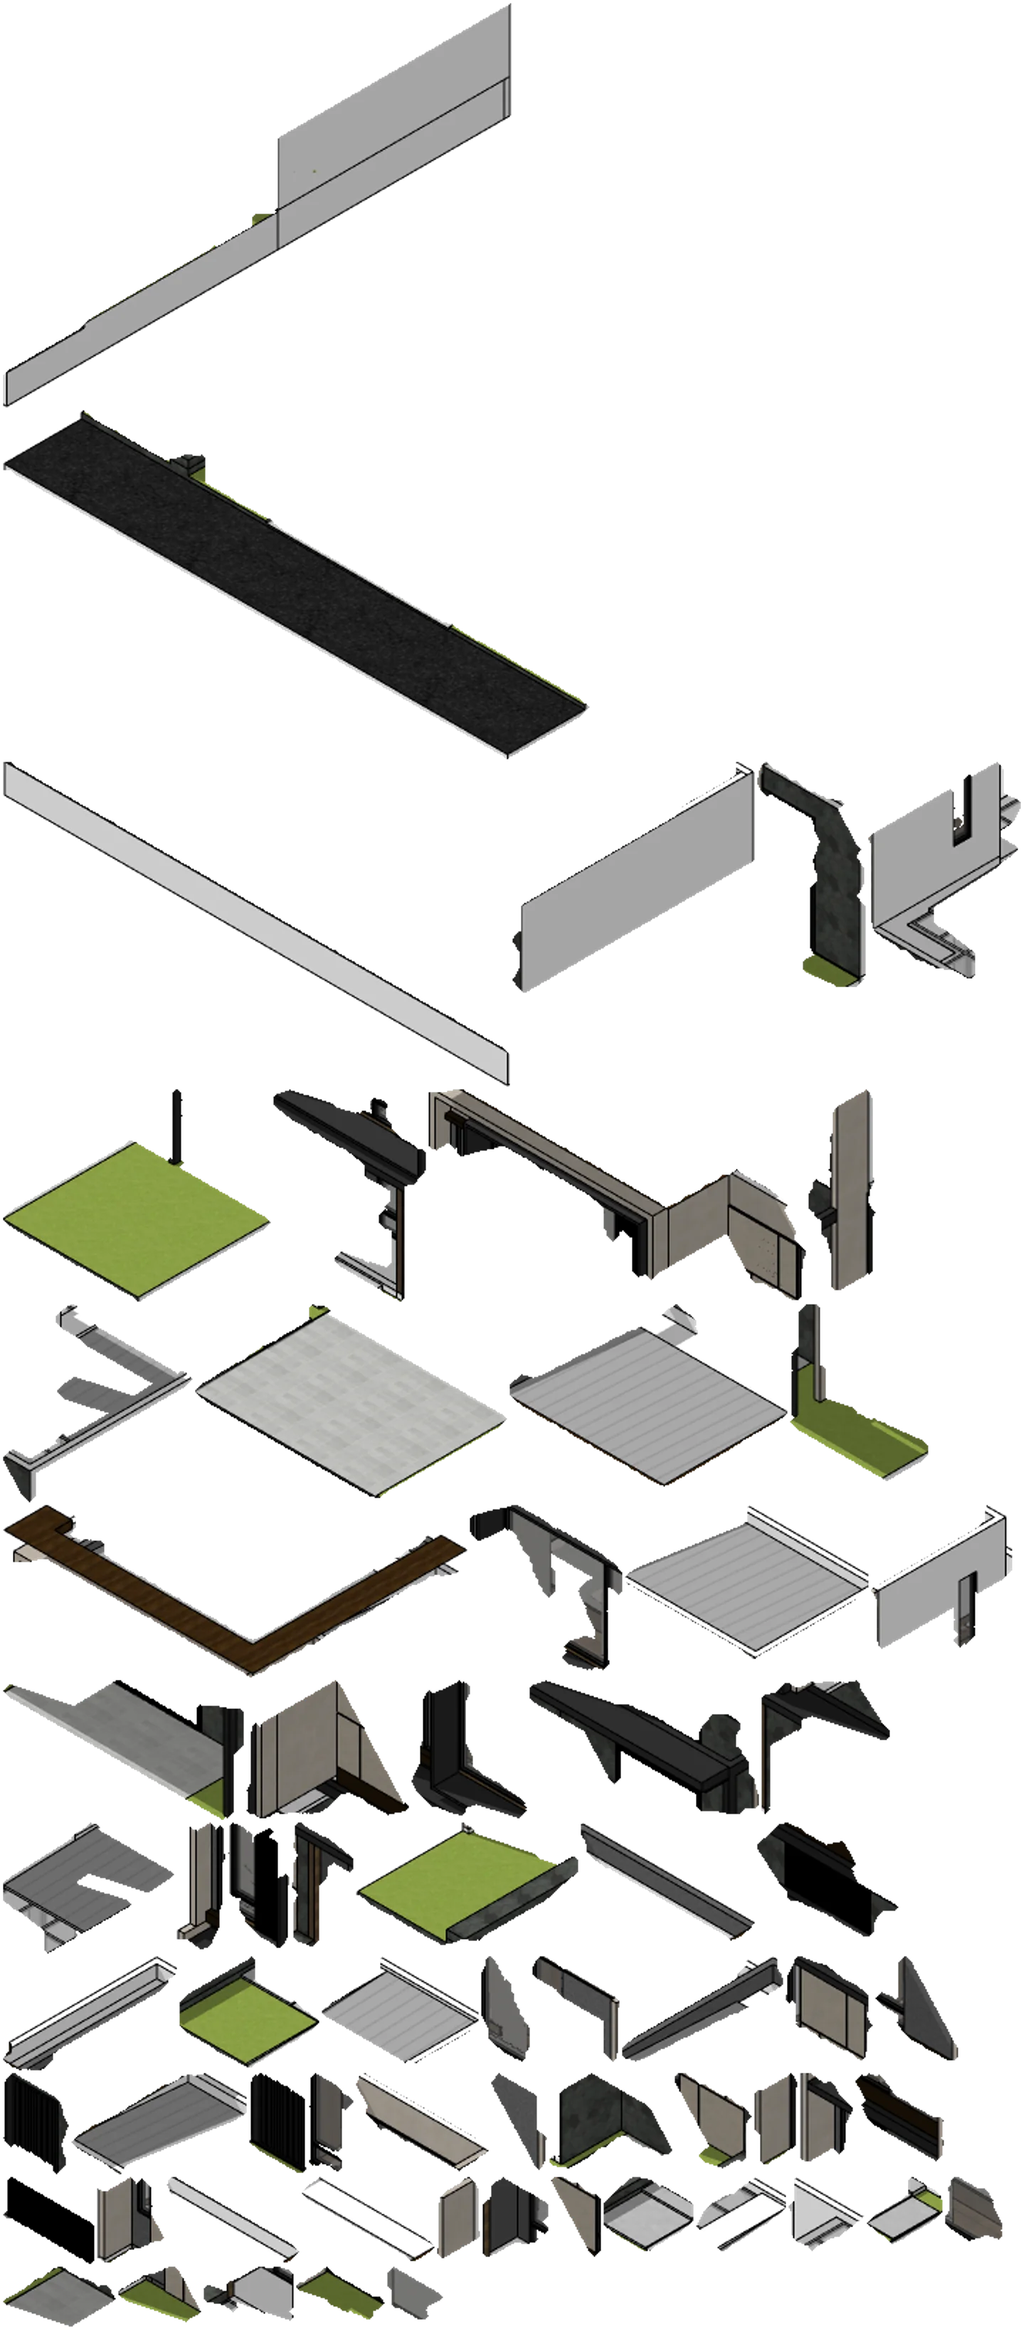
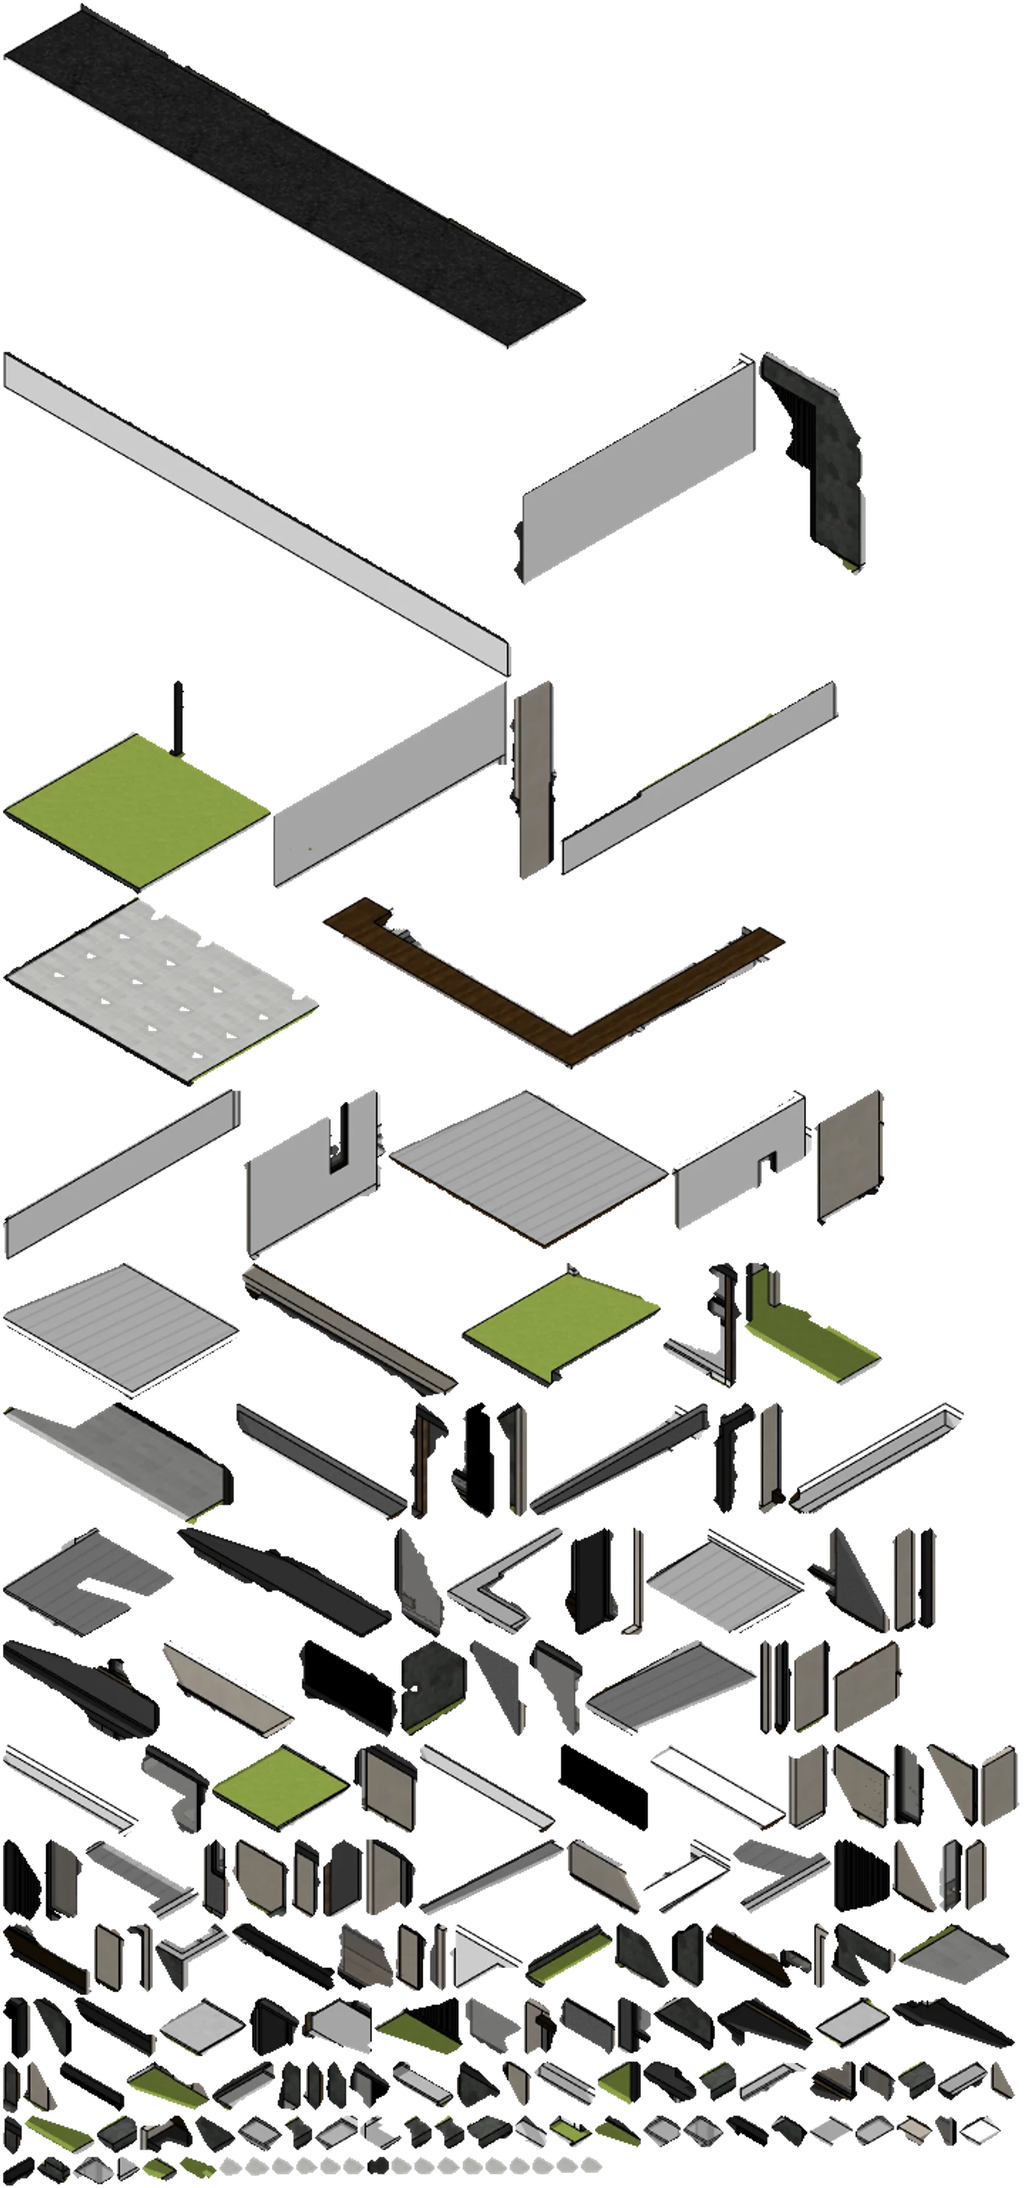
Home services: pencil-drawn sketch, then the building laid on like a puzzle
One six-second take once the section lands on screen. A pencil draws the
house line after line (the sketch lines are traced into strokes and the
drawing is uncovered along them), the finished sketch is held for a moment,
then the building is laid onto it like a puzzle: each part glides in from
its own direction, from clear to solid, next to parts already in place.

The parts are now cut along the sketch's own lines (window panes, wall
panels, floor slabs, steps, canopy, roof planes: 177 instead of 66) and
ordered storey by storey as a spreading front. Tempo is set by DRAW, HELD
and BUILD in ServiceSketch.tsx.

Claude-Session: https://claude.ai/code/session_01ReS4jKxqpAp3wjPnS89kia

diff --git a/src/components/ServiceSketch.tsx b/src/components/ServiceSketch.tsx
@@ -8,10 +8,12 @@ import model from '../data/model-parts.json'
 import './ServiceSketch.css'
 
 /**
- * Home (02), after Archidomo's sketch block, set on the site grid: a house stands straight on the page, first
- * as a line sketch. Once the section lands on screen the building is set onto the sketch part by part (lawn,
- * drive, walls, canopy, roof planes ...), quickly, from the ground up, until the finished house covers the drawing.
- * Assets: three renders from one camera, turned into sketch + parts sheet (scripts/build-model-parts.mjs).
+ * Home (02), after Archidomo's sketch block, set on the site grid: a house stands straight on the page and
+ * comes about in one six-second take once the section lands on screen. First a pencil draws it, line after
+ * line, the long lines before the details. Then the building is laid onto the drawing like a puzzle: every part
+ * (window pane, wall panel, floor slab, step, canopy, roof plane ...) glides in from its own direction, from
+ * clear to solid, next to parts already in place, until the finished house covers the sketch.
+ * Assets: three renders from one camera, turned into sketch, strokes and parts (scripts/build-model-parts.mjs).
  */
 export function animateServiceSketch(page: HTMLElement) {
   const el = page.querySelector<HTMLElement>('.svs')
@@ -28,31 +30,76 @@ export function animateServiceSketch(page: HTMLElement) {
   )
 }
 
-// per part: x, y on the sheet · width, height · x, y in the picture · storey (1 ground, 2 upper, 3 roof)
-const parts = model.parts as [number, number, number, number, number, number, number][]
-const HOLD = 0.35 // s the sketch is left alone once the section has landed
-const EACH = 0.026 // s from one part to the next
-const PAUSE = 0.14 // s of breath between two storeys
-const LAND = 0.42 // s a part takes to settle
-const DROP = 24 // picture px a part comes down from
+/* ---- the take, in seconds: 2.3 drawing + 0.3 held + 3.4 building = 6 -------------------------------------- */
+const DRAW = 2.3 // the pencil
+const STROKE = [0.16, 0.6] // shortest and longest time one stroke takes
+const HELD = 0.3 // the finished sketch, left alone
+const BUILD = 3.4 // the puzzle
+const LAND = 1.0 // one part, from clear and away to solid and home
+const TOTAL = DRAW + HELD + BUILD
+
+const PENCIL = 5 // picture px the pencil uncovers around a line's centre
+const REACH = [34, 78] // picture px a part travels, nearest and farthest
+const SWELL = 0.1 // how much larger a part is when it sets off
+
+/* ---- the sketch as strokes: when each starts and how long it takes ------------------------------------------- */
+type Stroke = { pts: number[]; len: number; at: number; dur: number }
+const strokes: Stroke[] = (() => {
+  const list = (model.strokes as number[][]).map((pts) => {
+    let len = 0
+    for (let i = 2; i < pts.length; i += 2) len += Math.hypot(pts[i] - pts[i - 2], pts[i + 1] - pts[i - 1])
+    return { pts, len, at: 0, dur: 0 }
+  })
+  // long lines first (the massing), details after; within that the hand moves from left to right
+  const byLength = [...list].sort((a, b) => b.len - a.len)
+  const longest = byLength[0]?.len || 1
+  const all = list.reduce((sum, s) => sum + s.len, 0) || 1
+  let inked = 0
+  for (const s of byLength) {
+    s.dur = STROKE[0] + (STROKE[1] - STROKE[0]) * Math.sqrt(s.len / longest)
+    // its turn comes by how much line was drawn before it, so the pencil keeps one pace from first line to last
+    const turn = 0.75 * (inked / all) + 0.25 * (s.pts[0] / model.w)
+    s.at = turn * (DRAW - s.dur)
+    inked += s.len
+  }
+  return list
+})()
+
+/* ---- the parts: where each comes from and when it sets off --------------------------------------------------- */
+// per part on the sheet: x, y · width, height · x, y in the picture · storey
+type Part = { sx: number; sy: number; w: number; h: number; x: number; y: number; dx: number; dy: number; at: number }
+const parts: Part[] = (model.parts as number[][]).map(([sx, sy, w, h, x, y], n, all) => {
+  // every part from its own side: the golden angle never repeats a direction for neighbours in the order
+  const angle = n * 2.39996
+  const reach = REACH[0] + (REACH[1] - REACH[0]) * ((n * 0.618034) % 1)
+  return {
+    sx, sy, w, h, x, y,
+    dx: Math.cos(angle) * reach,
+    dy: Math.sin(angle) * reach,
+    at: DRAW + HELD + (n / Math.max(1, all.length - 1)) * (BUILD - LAND),
+  }
+})
+
+const smooth = (p: number) => p * p * (3 - 2 * p)
 
 export function ServiceSketch() {
   const figure = useRef<HTMLElement>(null)
   const canvas = useRef<HTMLCanvasElement>(null)
-  // without motion the house is simply finished; otherwise it waits as a sketch
-  const [phase, setPhase] = useState<'sketch' | 'building' | 'built'>(() => (reducedMotion() ? 'built' : 'sketch'))
+  // without motion the house is simply finished
+  const [built, setBuilt] = useState(reducedMotion)
 
   useEffect(() => {
     const el = figure.current
     const cv = canvas.current
     if (!el || !cv || reducedMotion()) return
     let live = true
-    let run: gsap.core.Tween | undefined
+    let take: gsap.core.Tween | undefined
     let sheet: HTMLImageElement | undefined
     const observers: IntersectionObserver[] = []
     const dpr = () => Math.min(window.devicePixelRatio || 1, 2)
+    const sketch = el.querySelector<HTMLImageElement>('.svs__sketch')
 
-    /** Parts sheet, fetched a screen ahead so the build never waits for it. */
+    /** Parts sheet, fetched a screen ahead so the take never waits for it. */
     const fetchSheet = () => {
       if (sheet) return
       sheet = new Image()
@@ -60,45 +107,96 @@ export function ServiceSketch() {
       sheet.src = imgSrc('build-parts', el.offsetWidth * dpr())
     }
 
-    const build = () => {
+    const roll = () => {
       const ctx = cv.getContext('2d')
       const img = sheet
-      if (!ctx || !img?.naturalWidth) return setPhase('built') // no sheet, no show: just the finished house
+      if (!ctx || !sketch?.naturalWidth || !img?.naturalWidth) return setBuilt(true) // nothing to show it with
       cv.width = Math.round(Math.min(el.offsetWidth * dpr(), model.w * 2))
       cv.height = Math.round((cv.width * model.h) / model.w)
       const k = cv.width / model.w // canvas px per picture px
       const m = img.naturalWidth / model.sheet // sheet px per picture px
-      const last = parts[parts.length - 1]
+
+      // what the pencil has uncovered so far; the sketch image shows through it
+      const paper = document.createElement('canvas')
+      paper.width = cv.width
+      paper.height = cv.height
+      const pencil = paper.getContext('2d')
+      if (!pencil) return setBuilt(true)
+      pencil.lineWidth = PENCIL * k
+      pencil.lineCap = 'round'
+      pencil.lineJoin = 'round'
+      const done = new Uint8Array(strokes.length)
+
+      const draw = (t: number) => {
+        for (let n = 0; n < strokes.length; n++) {
+          const s = strokes[n]
+          if (done[n] || t < s.at) continue
+          const p = Math.min(1, (t - s.at) / s.dur)
+          let left = s.len * smooth(p) // the hand starts and stops gently
+          pencil.beginPath()
+          pencil.moveTo(s.pts[0] * k, s.pts[1] * k)
+          for (let i = 2; i < s.pts.length && left > 0; i += 2) {
+            const [ax, ay, bx, by] = [s.pts[i - 2], s.pts[i - 1], s.pts[i], s.pts[i + 1]]
+            const seg = Math.hypot(bx - ax, by - ay) || 1
+            const f = Math.min(1, left / seg)
+            pencil.lineTo((ax + (bx - ax) * f) * k, (ay + (by - ay) * f) * k)
+            left -= seg
+          }
+          pencil.stroke()
+          if (p === 1) done[n] = 1
+        }
+        // towards the end the whole sheet clears: grain and dots no stroke passed over
+        const rest = (t - (DRAW - 0.35)) / (0.35 + HELD * 0.6)
+        if (rest > 0) {
+          pencil.globalAlpha = Math.min(1, rest) * 0.25
+          pencil.fillRect(0, 0, paper.width, paper.height)
+          pencil.globalAlpha = 1
+        }
+      }
+
       const clock = { t: 0 }
-      const total = (parts.length - 1) * EACH + (last[6] - 1) * PAUSE + LAND
-      setPhase('building')
-      run = gsap.to(clock, {
-        t: total,
-        duration: total,
-        delay: HOLD,
+      take = gsap.to(clock, {
+        t: TOTAL,
+        duration: TOTAL,
         ease: 'none',
         onUpdate: () => {
+          const t = clock.t
+          if (t < DRAW + HELD) draw(t)
           ctx.clearRect(0, 0, cv.width, cv.height)
-          for (let n = 0; n < parts.length; n++) {
-            const [sx, sy, w, h, x, y, storey] = parts[n]
-            const p = (clock.t - n * EACH - (storey - 1) * PAUSE) / LAND
-            if (p <= 0) break // parts go up in order: nothing after this one has started
-            const near = 1 - Math.min(1, p)
-            ctx.globalAlpha = Math.min(1, p * 3)
-            ctx.drawImage(img, sx * m, sy * m, w * m, h * m, x * k, (y - DROP * near ** 4) * k, w * k, h * k)
+          // the sketch, as far as the pencil has come
+          ctx.globalAlpha = 1
+          ctx.drawImage(paper, 0, 0)
+          ctx.globalCompositeOperation = 'source-in'
+          ctx.drawImage(sketch, 0, 0, cv.width, cv.height)
+          ctx.globalCompositeOperation = 'source-over'
+          // the parts, in the order they set off
+          for (const part of parts) {
+            const p = (t - part.at) / LAND
+            if (p <= 0) break
+            const away = p >= 1 ? 0 : (1 - p) ** 4 // fast out of the distance, slow into place
+            const size = 1 + SWELL * away
+            ctx.globalAlpha = p >= 1 ? 1 : smooth(Math.min(1, p / 0.85)) // clear to solid, over the whole glide
+            ctx.drawImage(
+              img,
+              part.sx * m, part.sy * m, part.w * m, part.h * m,
+              (part.x + part.dx * away - (part.w * (size - 1)) / 2) * k,
+              (part.y + part.dy * away - (part.h * (size - 1)) / 2) * k,
+              part.w * size * k,
+              part.h * size * k,
+            )
           }
         },
         // the canvas now shows the whole house: hand over to the plain image
-        onComplete: () => setPhase('built'),
+        onComplete: () => setBuilt(true),
       })
     }
 
     const loaded = (img: HTMLImageElement) =>
       img.complete
         ? Promise.resolve()
-        : new Promise<void>((done) => {
-            img.addEventListener('load', () => done(), { once: true })
-            img.addEventListener('error', () => done(), { once: true })
+        : new Promise<void>((ready) => {
+            img.addEventListener('load', () => ready(), { once: true })
+            img.addEventListener('error', () => ready(), { once: true })
           })
 
     const watch = (fn: () => void, options: IntersectionObserverInit) => {
@@ -113,22 +211,22 @@ export function ServiceSketch() {
 
     const off = whenGateOpen(() => {
       watch(fetchSheet, { rootMargin: '100% 0px' })
-      // landed: most of the house in view, also where the model is taller than the screen
+      // landed: a good half of the house in view, also where the model is taller than the screen
       watch(
         () => {
           fetchSheet()
           const waits = Array.from(el.querySelectorAll('img'), loaded)
           if (sheet) waits.push(loaded(sheet))
-          Promise.all(waits).then(() => live && build())
+          Promise.all(waits).then(() => live && roll())
         },
-        { threshold: Math.min(0.7, (0.85 * window.innerHeight) / el.offsetHeight) },
+        { threshold: Math.min(0.55, (0.8 * window.innerHeight) / el.offsetHeight) },
       )
     })
     return () => {
       live = false
       off()
       observers.forEach((io) => io.disconnect())
-      run?.kill()
+      take?.kill()
     }
   }, [])
 
@@ -146,13 +244,14 @@ export function ServiceSketch() {
           <span className="svs__plus" aria-hidden="true">+</span>
           {tr('A house by our studio, from sketch to building.', 'Rumah karya studio kami, dari sketsa hingga terbangun.')}
         </p>
-        <figure className="svs__model" ref={figure} data-phase={phase}>
+        <figure className="svs__model" ref={figure} data-built={built ? '' : undefined}>
           <Img
             id="build-full"
             className="svs__full"
             alt={tr('3D model of a two-storey house by Kadanglabo', 'Model 3D rumah dua lantai karya Kadanglabo')}
             sizes="(min-width: 900px) 60vw, 100vw"
           />
+          {/* only read by the canvas: the pencil uncovers it stroke by stroke */}
           <Img id="build-sketch" className="svs__sketch" alt="" aria-hidden sizes="(min-width: 900px) 60vw, 100vw" />
           <canvas ref={canvas} className="svs__parts" aria-hidden="true" />
         </figure>

diff --git a/src/components/ServiceSketch.css b/src/components/ServiceSketch.css
@@ -53,13 +53,13 @@
   text-transform: uppercase;
 }
 
-/* the model, one canvas for three things: the finished house (what stays), its line sketch (what waits),
-   and the canvas the parts are set onto the sketch with. See data-phase in ServiceSketch.tsx. */
+/* the model: the finished house (what stays) and a canvas of the same size on which the take is played: the
+   pencil sketch, then the parts laid onto it. The sketch image itself is never shown, the canvas reads it. */
 .svs__model {
   position: relative;
   grid-column: 4 / -1;
   justify-self: center;
-  /* never taller than the screen: the whole house has to be in view to watch it build */
+  /* never taller than the screen: the whole house has to be in view to watch it come about */
   width: min(100%, min(72vh, 720px) * 1.159);
   margin: 0;
 }
@@ -76,11 +76,12 @@
   height: 100%;
 }
 /* until the house is built the finished image only holds the place */
-.svs__model:not([data-phase='built']) .svs__full {
+.svs__model:not([data-built]) .svs__full,
+.svs__sketch {
   opacity: 0;
 }
-.svs__model[data-phase='built'] .svs__sketch,
-.svs__model[data-phase='built'] .svs__parts {
+.svs__model[data-built] .svs__sketch,
+.svs__model[data-built] .svs__parts {
   display: none;
 }
 

diff --git a/README.md b/README.md
@@ -46,7 +46,7 @@ git reset --hard <hash>      # kembali total ke commit tertentu (riwayat sesudah
 
 | Route | Isi |
 | --- | --- |
-| `/` | Sesuai urutan brief: Hero "KADANGLABO" (gaya shed.design) dengan tagline di bawah nama → (01) About → Kadanglabo spirit (showreel kiri, etos kanan — layout "Shed spirit") → (02) Core services & sectors (ref. Archidomo): model 3D rumah dua lantai yang mula-mula tampil sebagai sketsa garis; begitu section mendarat di layar, bagian-bagian bangunan (taman, carport, dinding, kanopi, atap) terpasang cepat satu per satu dari bawah ke atas sampai rumah jadi menutupi sketsanya, berdiri langsung di atas warna halaman di samping judul, lalu gambar aksonometri interior (juga dipotong, tanpa bingkai) sejajar dengan visual 3D Perum Firlatata, dan tiga kelompok layanan (Desain, Manajemen, Perawatan) sebagai catatan "+". Sektor proyek tidak diulang di sini, cukup di (03) → (03) Our work: mosaik foto per kategori yang bergerak saat scroll (ref. Coeval; di HP tumpukan per kategori, foto terbuka dari pojok ala Archidomo) + pita arsip (angka 61 menghitung naik, rincian per sektor) → (04) Latest updates → footer "See work" |
+| `/` | Sesuai urutan brief: Hero "KADANGLABO" (gaya shed.design) dengan tagline di bawah nama → (01) About → Kadanglabo spirit (showreel kiri, etos kanan — layout "Shed spirit") → (02) Core services & sectors (ref. Archidomo): model 3D rumah dua lantai yang terjadi dalam satu adegan 6 detik begitu section mendarat di layar: mula-mula digambar seperti tarikan pensil, garis demi garis (±2,3 dtk), lalu bangunannya terpasang di atas sketsa seperti puzzle (±3,4 dtk): tiap bagian (kaca jendela, panel dinding, lantai, anak tangga, kanopi, bidang atap) meluncur dari arahnya sendiri, dari bening ke padat, di samping bagian yang sudah terpasang, sampai rumah jadi menutupi sketsanya. Berdiri langsung di atas warna halaman di samping judul, lalu gambar aksonometri interior (juga dipotong, tanpa bingkai) sejajar dengan visual 3D Perum Firlatata, dan tiga kelompok layanan (Desain, Manajemen, Perawatan) sebagai catatan "+". Sektor proyek tidak diulang di sini, cukup di (03) → (03) Our work: mosaik foto per kategori yang bergerak saat scroll (ref. Coeval; di HP tumpukan per kategori, foto terbuka dari pojok ala Archidomo) + pita arsip (angka 61 menghitung naik, rincian per sektor) → (04) Latest updates → footer "See work" |
 | `/about` (`/about#team`) | About (tanpa section biru): foto pertama terbuka dari bentuk pintu ("satu pintu", ref. ERA Residence) → Kadanglabo dalam angka (cincin 16 foto proyek berputar, angka bergulir; ref. Kononenko; angka dihitung dari data) → Satu meja: tiga pita foto lebar (Klien · Perencana · Pelaksana, nama peran di dalam foto + apa yang dibawa ke meja) menyapu masuk dari sisi bergantian satu per satu, nama peran naik dari tepi pita, foto zoom-out (ref. panel Saisei) → Etos + 2 parameter keberhasilan → Vision (foto full-bleed) → Mission & Our goals: dua kolom sejajar berisi pernyataan bernomor yang menyala kata demi kata saat scroll, angka serif raksasa oranye tipis di belakang tiap kolom → tim in-house (`#team`) → CTA. `/studio` dialihkan ke sini |
 | `/services` | Skema brief: (01) Our services: adegan zoom tertahan, foto La Barka membesar dari bingkai kecil sampai penuh layar sementara empat baris janji mendarat satu per satu (ref. hero Archidomo), lalu 11 layanan bernomor per kelompok (ref. Telha Clarke) → (02) Service categories (desktop: foto menempel + angka italic 01-03 bergulir, ref. archi-malin) → (03) Service detail: empat tahap dalam kartu oranye yang bergeser ke samping saat di-scroll (desktop) / di-swipe (mobile) → (04) Start a project (form + foto tim) |
 | `/work` | Skema brief: Introduction + Lokasi proyek ("Dari Yogyakarta ke 5 kota lain": judul di atas, lalu satu baris penuh per kota berisi nomor, nama, jumlah proyek, panah; garis baris tergambar, nama naik, angka menghitung naik; tiap baris memfilter arsip) & Selected projects per kategori (Commercial Design, Hospitality Design, Selected Residential Design; penanda 1 / 3, foto zig-zag ala Kononenko) → **Project archive**: pembuka "Arsip proyek (61)" dengan foto melayang (ref. Telha Clarke), tabel terlipat 12 baris (filter Category · Location · Year · Status) |
@@ -82,9 +82,11 @@ rumah jadi; latar transparan) di `assets/model/`. Untuk menggantinya (mis. denga
 node scripts/build-model-parts.mjs <lantai-dasar.png> <lantai-atas.png> <rumah-jadi.png>
 ```
 
-Skrip membuat tiga hal: rumah jadi (`build-full`), sketsa garisnya (`build-sketch`, ditarik dari tepi render itu
-sendiri), dan lembar potongan bagian bangunan (`build-parts`) beserta `src/data/model-parts.json` yang mencatat
-letak dan urutan pasang tiap bagian (lantai dasar dulu, lalu lantai atas, lalu atap).
+Skrip membuat: rumah jadi (`build-full`), sketsa garisnya (`build-sketch`, ditarik dari tepi render itu sendiri),
+lembar potongan bagian bangunan (`build-parts`, dipotong mengikuti garis sketsa), dan `src/data/model-parts.json`
+yang mencatat letak serta urutan pasang tiap bagian (lantai dasar, lantai atas, atap; tiap bagian di samping yang
+sudah terpasang) dan garis sketsa sebagai tarikan pensil. Tempo adegan (lama menggambar, jeda, lama memasang) ada
+di konstanta `DRAW`, `HELD`, `BUILD` di awal `src/components/ServiceSketch.tsx`.
 
 ## Performa & pengujian
 
